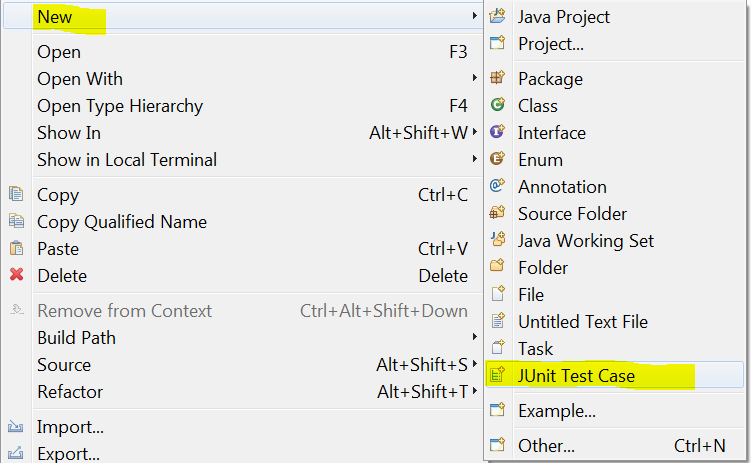
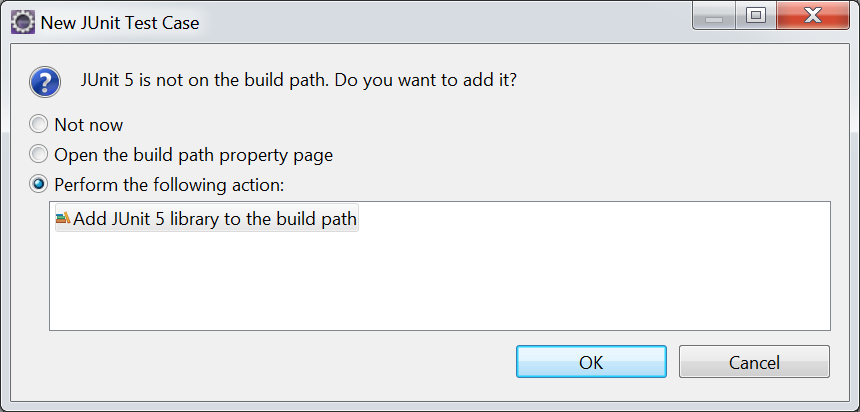
GitBook: [master] one page and 9 assets modified

Changed region(s): [[0.0, 0.0, 1.0, 1.0], [0.5513, 0.4078, 0.6125, 0.4369]]

diff --git a/yksikkoetestaus/README.md b/yksikkoetestaus/README.md
@@ -51,9 +51,7 @@ Seuraavaksi luomme JUnit-testiluokan, johon määritellään testejä. Testit ov
 
 Eclipsessä uuden testin voi luoda valitsemalla aktiivisessa projektissa File-&gt;New-&gt;JUnit Test Case tai napsauttamalla hiiren oikeaa nappia projektin päällä ja valitsemalla New-&gt;JUnit Test Case. Voit hyväksyä luomisen aikana esitetyissä ikkunoissa oletusasetukset napsattamalla Next/Finish.
 
-te
-
-![Eclipsen toimintovalikko uuden JUnit-testin luomisen aikana.](../.gitbook/assets/image%20%283%29.png)
+![Eclipsen toimintovalikko uuden JUnit-testin luomisen aikana.](../.gitbook/assets/image%20%281%29.png)
 
 Projektiin luotu testiluokka MatikkaaTest.java näyttää seuraavalta. Luokan alussa on JUnit-testien vaatimien kirjastojen import-lauseet. Oletuksena luokkaan on luotu yksi testi nimeltä test\(\), joka on oletuksena määritelty aina epäonnistumaan \(fail\). Huomaa, että jokaisen testin eteen on kirjoitettava @Test tägi. Tämä erottaa itse testitapaukset muista luokkaan mahdollisesti kirjoitettavista operaatioista.
 
@@ -76,7 +74,7 @@ void test() {
 
 Testin voi suorittaa samaan tapaan kuin minkä tahansa Java-sovelluksen napsauttamalla sovelluskehittimen Play/Run -nappulaa yläreunasta. Testin suorituksen jälkeen näet yhteenvedon testin tuloksista \(alla\). Tässä tapauksessa testi epäonnistuu odotetusti.
 
-![Testiraportti ep&#xE4;onnistuneen suorituksen j&#xE4;lkeen.](../.gitbook/assets/image%20%282%29.png)
+![Testiraportti ep&#xE4;onnistuneen suorituksen j&#xE4;lkeen.](../.gitbook/assets/image%20%287%29.png)
 
 ## Testien kirjoittaminen
 
@@ -88,7 +86,7 @@ Alla on kirjoitettu äsken kuvattu testi JUnit-muotoon. Itse testimetodin nimi v
 
 Testi voidaan suorittaa kuten edellä ja siitä saatava raportti kertoo sen onnistuneen.
 
-![Testiraportti onnsituneen testiajon j&#xE4;lkeen.](../.gitbook/assets/image.png)
+![Testiraportti onnistuneen testiajon j&#xE4;lkeen.](../.gitbook/assets/image%20%286%29.png)
 
 ## Totuusarvot testeissä
 
@@ -137,7 +135,113 @@ Lorem ipsum
 
 ## Testien automaattinen generointi koodista
 
-Eclipse-&gt;New JUnit Test Case-&gt;Class Under Test
+Eclipse osaa myös auttaa ohjelmoijaa testien luomisessa. Otetaan esimerkkinä aiemmin luomamme Auto-luokka, johon haluaisimme luoda testitapauksia.  Auto-luokan koodi on määritelty alla.
+
+{% code-tabs %}
+{% code-tabs-item title="Auto.java" %}
+```java
+public class Auto {
+
+
+String väri;
+int nopeus;
+int vuosiluku;
+
+public String getVäri() {
+    return väri;
+}
+
+public void setVäri(String väri) {
+    this.väri = väri;
+}
+
+public int getNopeus() {
+    return nopeus;
+}
+
+public void setNopeus(int nopeus) {
+    this.nopeus = nopeus;
+}
+
+public int getVuosiluku() {
+    return vuosiluku;
+}
+
+public void setVuosiluku(int vuosiluku) {
+    this.vuosiluku = vuosiluku;
+}
+
+@Override
+public String toString() {
+    return "Auto [väri=" + väri + ", nopeus=" + nopeus + ", vuosiluku=" + vuosiluku + "]";
+}
+```
+{% endcode-tabs-item %}
+{% endcode-tabs %}
+
+}
+
+Napsauttamalla oikeaa hiirennappia Auto-luokan päältä Eclipsen tiedostolistauksessa ja valitsemalla New-&gt;Junit Test Case voidaan käynnistää testien automaattinen generointi koodin perusteella. Huomaa ao. ikkunan alareunassa kohta _"Class under test: Auto"_. Valitse seuraavaksi Next.
+
+![Testien automaattinen luonti luokan m&#xE4;&#xE4;rittelyn pohjalta.](../.gitbook/assets/image%20%288%29.png)
+
+Seuraavassa ikkunassa Eclipse esittää Auto.luokasta löytyvät metodit samaan tapaan kuin aiemmin gettereiden ja settereiden automaattisen luonnin yhteydessä. Valitaan kaikki Auto-luokan metodit, mutta jätetään Object-yliluokan metodit testaamatta. Valitse seuraavaksi Finish.
+
+![Valintaikkunassa valitaan Auto-luokan metodit, joille halutaan luoda testit.](../.gitbook/assets/image%20%285%29.png)
+
+Lopuksi JUnit-kirjasto täytyy vielä lisätä mukaan projektiin, jotta sitä voidaan käyttää. Valitse OK.
+
+![JUnit kirjaston lis&#xE4;&#xE4;minen projektiin.](../.gitbook/assets/image%20%283%29.png)
+
+Tämän jälkeen Eclipse generoi AutoTest-nimisen luokan, jossa on lyhyet testitapauksen rungot \(stub\) kaikkia äsken valittuja metodeja varten. Näille täytyy toki vielä laatia looginen sisältö ennenkuin niistä on hyötyä, sillä toistaiseksi kaikki testit on määritelty epäonnistumaan.
+
+{% code-tabs %}
+{% code-tabs-item title="AutoTest.java" %}
+```java
+import static org.junit.jupiter.api.Assertions.*;
+import org.junit.jupiter.api.Test;
+
+class AutoTest {
+
+@Test
+void testGetVäri() {
+    fail("Not yet implemented");
+}
+
+@Test
+void testSetVäri() {
+    fail("Not yet implemented");
+}
+
+@Test
+void testGetNopeus() {
+    fail("Not yet implemented");
+}
+
+@Test
+void testSetNopeus() {
+    fail("Not yet implemented");
+}
+
+@Test
+void testGetVuosiluku() {
+    fail("Not yet implemented");
+}
+
+@Test
+void testSetVuosiluku() {
+    fail("Not yet implemented");
+}
+
+@Test
+void testToString() {
+    fail("Not yet implemented");
+}
+```
+{% endcode-tabs-item %}
+{% endcode-tabs %}
+
+}
 
 ## Test Driven Development \(TDD\)
 
